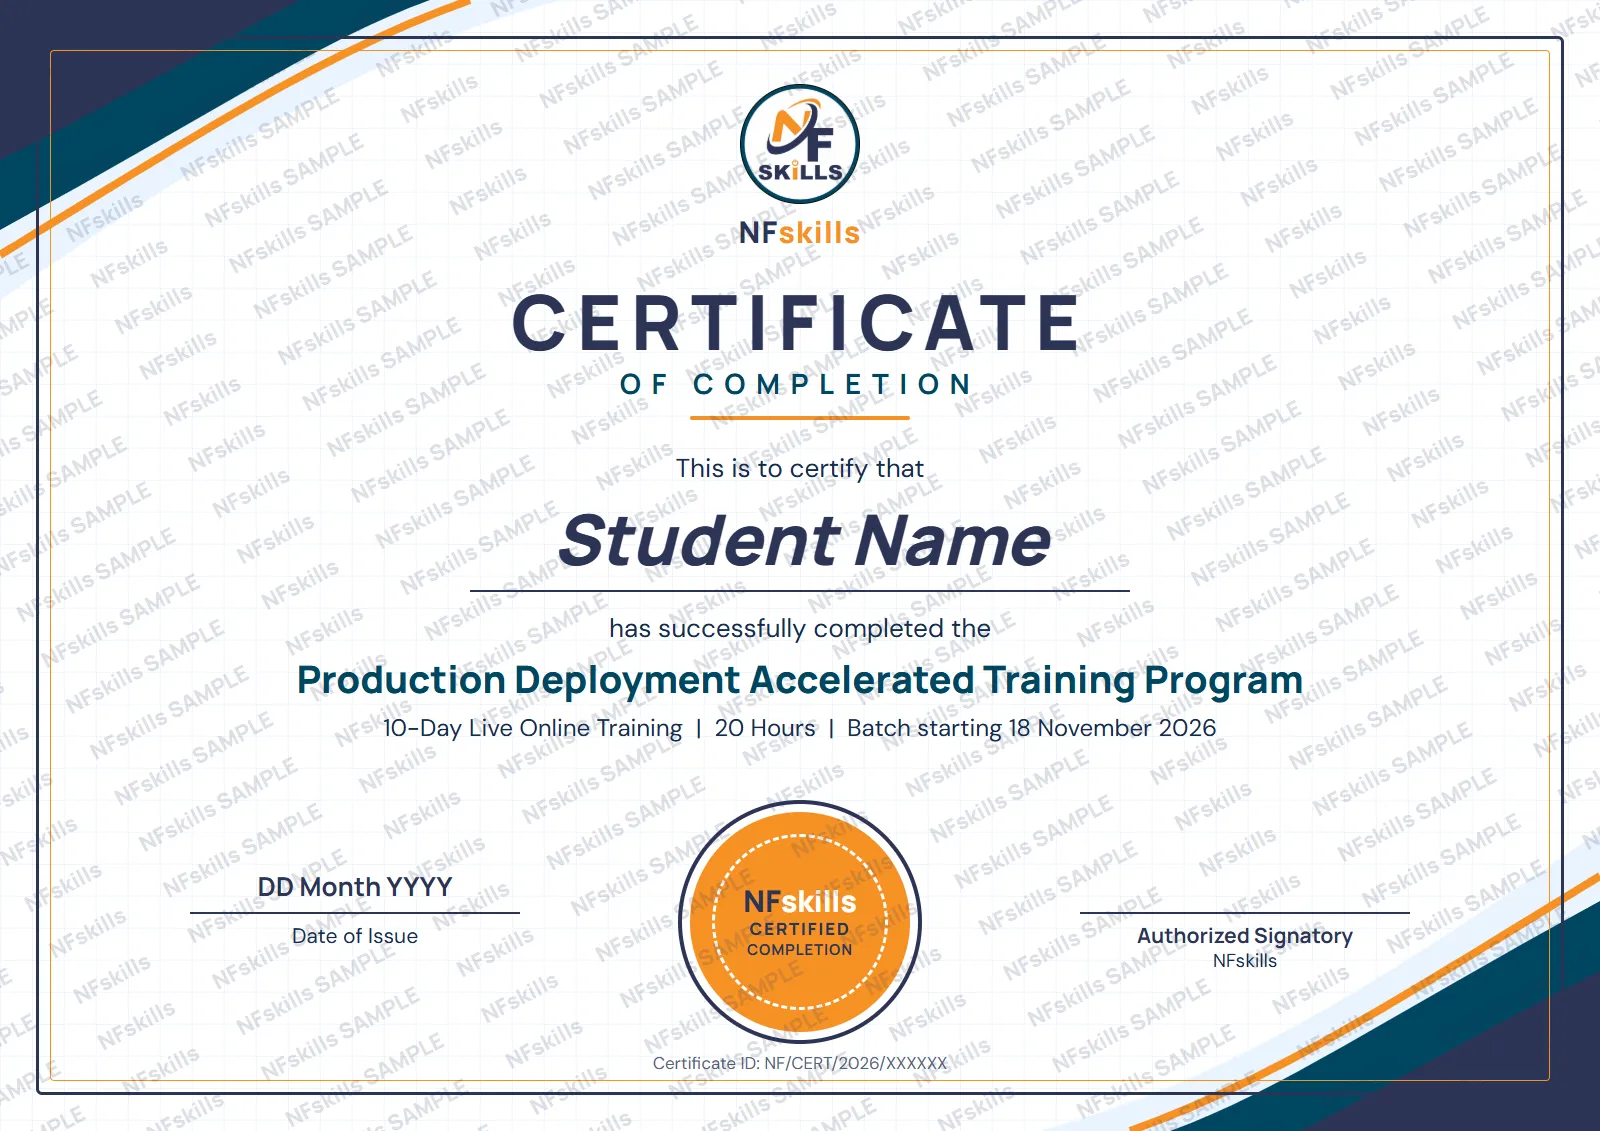
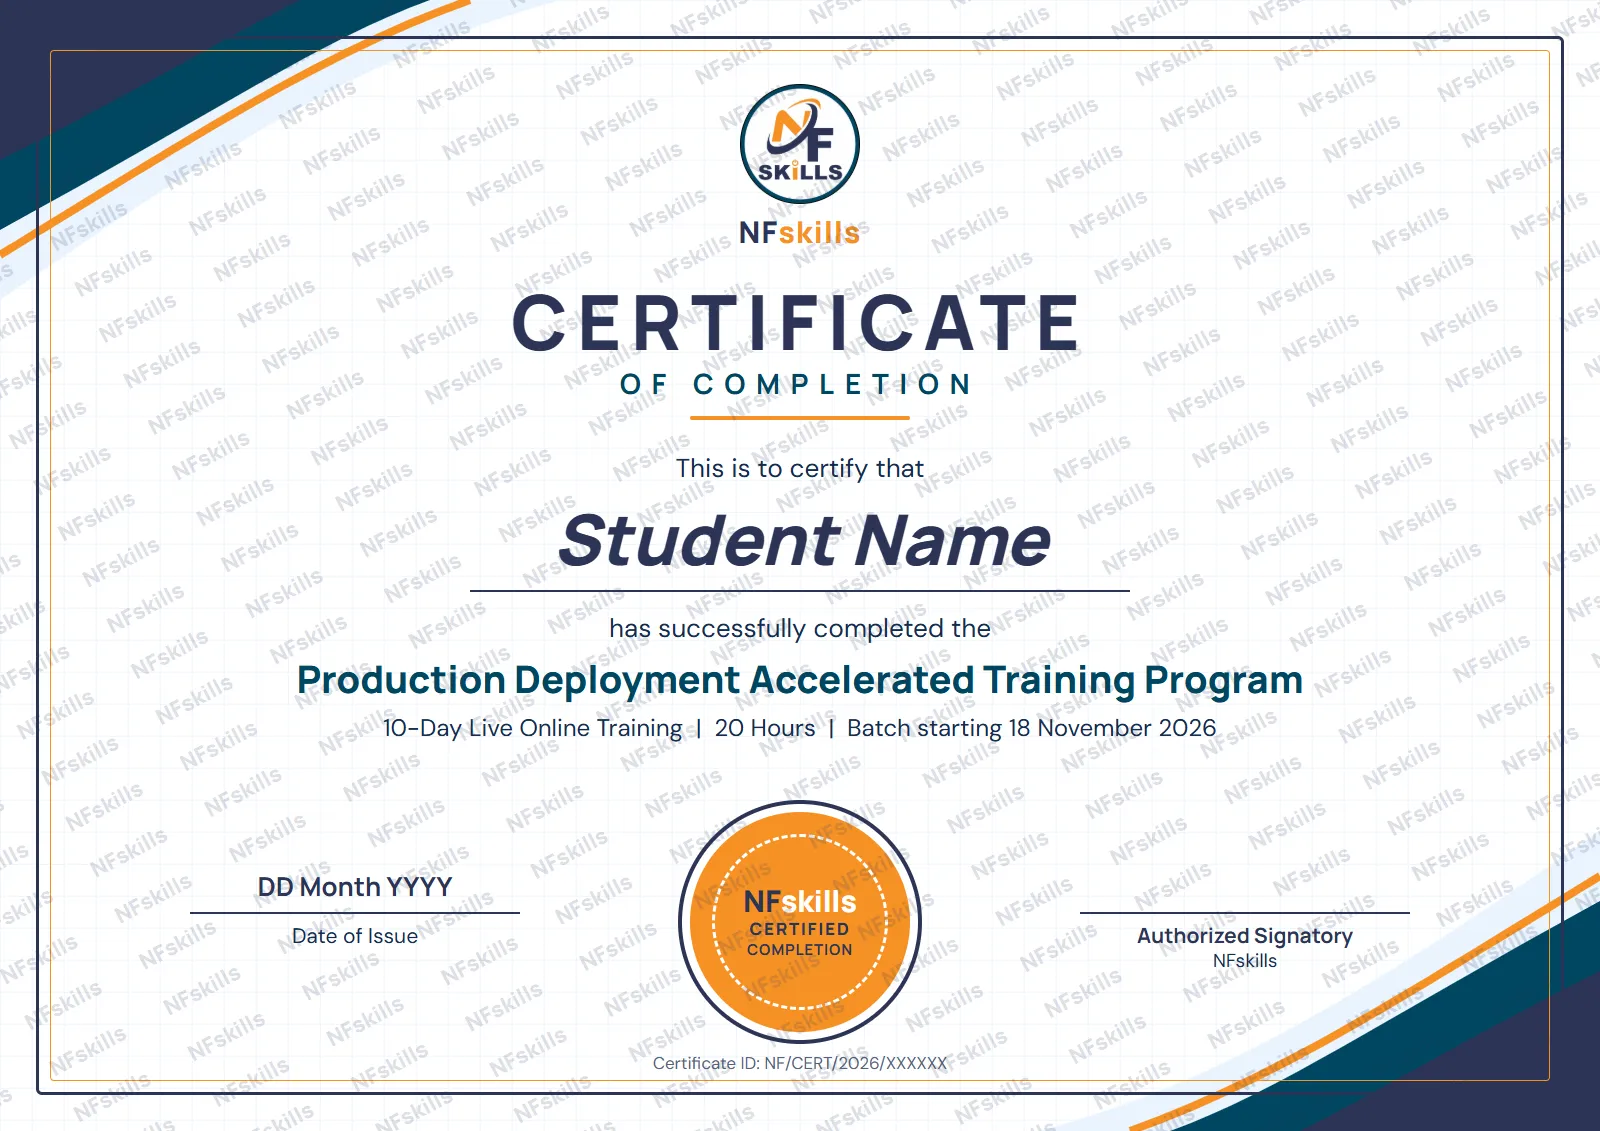
Certificate watermark: repeat only NFskills, drop the word SAMPLE

diff --git a/integrations/certificate-design.html b/integrations/certificate-design.html
@@ -72,10 +72,10 @@ svg{display:block}
 if (location.hash.includes('blank')) document.querySelectorAll('.fill').forEach(function (e) { e.style.visibility = 'hidden'; });
 if (location.hash.includes('watermark')) {
   document.querySelector('.sig').remove();
-  // small repeated "NFskills" text over the whole certificate, so the website copy cannot be passed off as real
+  // small repeated "NFskills" text over the whole certificate, so the website copy cannot be reused
   var w = document.createElement('div');
   w.style.cssText = 'position:absolute;left:-600px;top:-700px;width:2800px;height:2600px;transform:rotate(-28deg);display:flex;flex-wrap:wrap;align-content:flex-start;gap:30px 46px;font:800 22px/1 M,sans-serif;color:rgba(44,53,86,.16);pointer-events:none;z-index:9';
-  for (var i = 0; i < 1400; i++) { var s = document.createElement('span'); s.textContent = i % 2 ? 'NFskills' : 'NFskills SAMPLE'; w.appendChild(s); }
+  for (var i = 0; i < 1400; i++) { var s = document.createElement('span'); s.textContent = 'NFskills'; w.appendChild(s); }
   document.body.appendChild(w);
 }
 </script>
